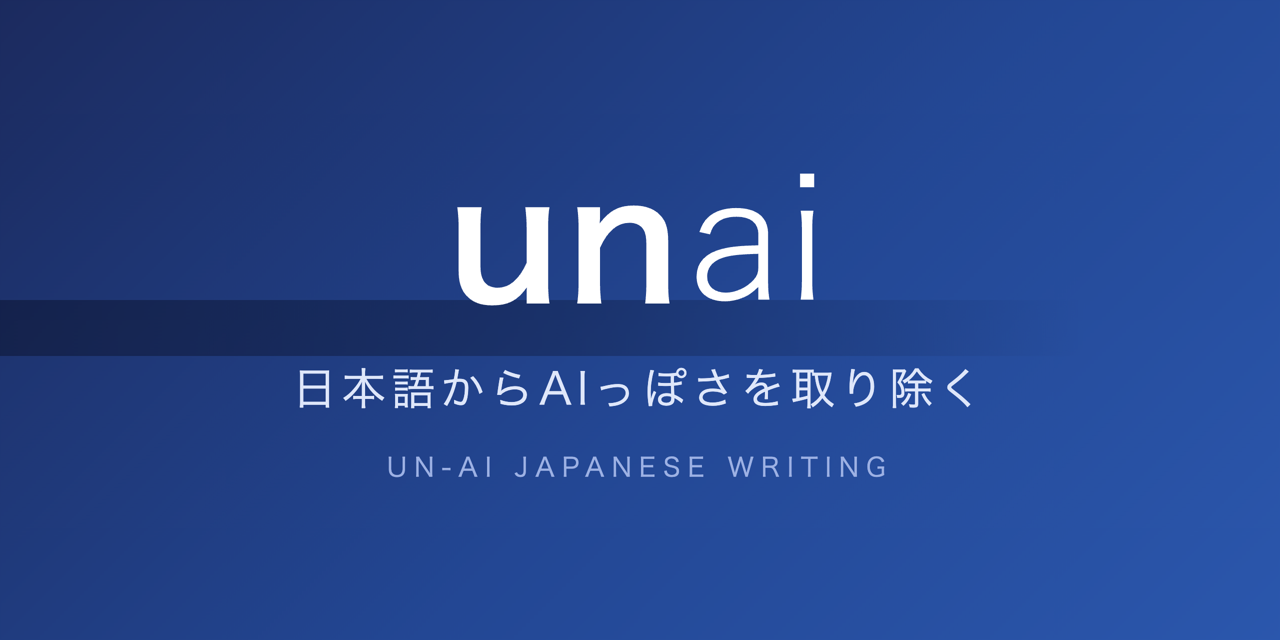
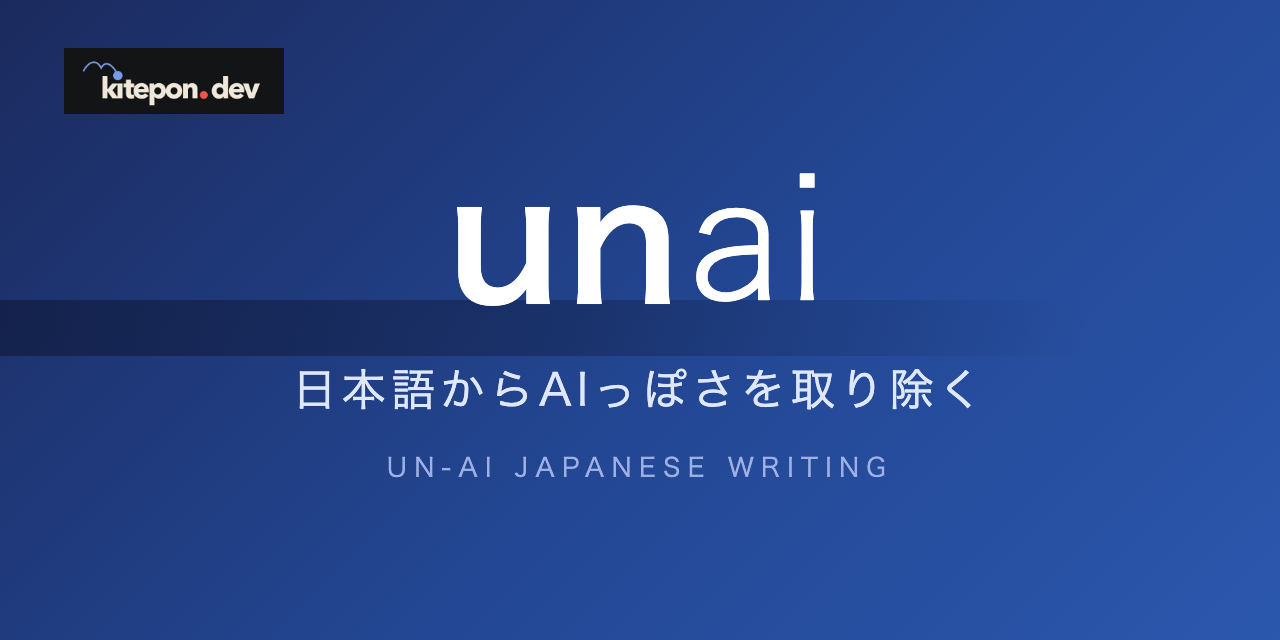
unaiの公開面をkitepon.devブランドへ接続

diff --git a/.github/og-source.html b/.github/og-source.html
@@ -14,6 +14,9 @@
     background:linear-gradient(90deg,rgba(12,20,48,.55) 0%,rgba(12,20,48,.35) 45%,rgba(12,20,48,0) 85%);
     border-radius:0 28px 28px 0;
   }
+  .brand{
+    position:absolute;left:64px;top:48px;width:220px;height:auto;
+  }
   .name{
     position:relative;color:#ffffff;font-size:168px;font-weight:300;
     letter-spacing:.04em;line-height:1;margin:0 0 34px;
@@ -29,6 +32,7 @@
   }
 </style>
 <div class="banner">
+  <img class="brand" src="kitepon-dev-on-night.png" alt="kitepon.dev">
   <div class="stroke"></div>
   <p class="name"><b>un</b>ai</p>
   <p class="tagline">日本語からAIっぽさを取り除く</p>

diff --git a/README.en.md b/README.en.md
@@ -1,5 +1,8 @@
 <p align="center"><img src=".github/og.png" alt="unai — strip AI flavor from Japanese text" width="100%"></p>
 
+<p align="center"><a href="https://kitepon.dev/en/#systems"><img src=".github/kitepon-dev-on-night.png" alt="kitepon.dev" width="180"></a></p>
+<p align="center"><strong>A kitepon.dev AI Development System</strong></p>
+
 # unai — strip AI flavor from Japanese text
 
 > An agent skill that diagnoses "AI-ness" in Japanese prose written by AI and removes it with minimal edits. Works on Claude Code, Codex, Grok, and Cursor.
@@ -60,3 +63,7 @@ De-AI'd text still needs *your* voice. Put your first-person choice, sentence en
 ## License
 
 MIT
+
+## Support and security
+
+Use [GitHub Issues](https://github.com/kitepon/unai/issues) for usage questions and bug reports. Do not disclose vulnerabilities in a public issue; follow the [security policy](SECURITY.md) instead.

diff --git a/README.md b/README.md
@@ -1,5 +1,8 @@
 <p align="center"><img src=".github/og.png" alt="unai — 日本語からAIっぽさを取り除く" width="100%"></p>
 
+<p align="center"><a href="https://kitepon.dev/#systems"><img src=".github/kitepon-dev-on-night.png" alt="kitepon.dev" width="180"></a></p>
+<p align="center"><strong>kitepon.dev の AI Development System</strong></p>
+
 # unai — 日本語文章からAIっぽさを取り除く
 
 > AIが書いた日本語の「AIっぽさ」を診断し、最小限の手直しで人の文章にするagent skill。Claude Code / Codex / Grok / Cursorで動く。
@@ -113,3 +116,7 @@ flowchart LR
 ## ライセンス
 
 MIT
+
+## サポートとセキュリティ
+
+使い方や不具合は [GitHub Issues](https://github.com/kitepon/unai/issues) へ。脆弱性の報告は公開Issueへ書かず、[セキュリティポリシー](SECURITY.md) に従ってください。

diff --git a/SECURITY.md b/SECURITY.md
@@ -1,0 +1,14 @@
+# セキュリティポリシー
+
+## 対応する版
+
+最新の公開版と`main`ブランチを対象に、セキュリティ報告を受け付けます。
+
+## 報告方法
+
+GitHubの
+[Private vulnerability reporting](https://github.com/kitepon/unai/security/advisories/new)
+から非公開で報告してください。公開Issue、Discussion、Pull Requestへ脆弱性の詳細を書かないでください。
+
+報告には、影響する版、再現手順、想定される影響、分かる場合は修正案を含めてください。
+受領後、内容と影響を確認し、公開方法と修正版の扱いを報告者と調整します。

diff --git a/SUPPORT.md b/SUPPORT.md
@@ -1,0 +1,9 @@
+# サポート
+
+unaiの使い方、不具合、誤検出、新しい日本語AI指紋の報告は
+[GitHub Issues](https://github.com/kitepon/unai/issues) で受け付けます。
+
+報告には、利用したホスト（Claude Code / Codex / Grok / Cursor）、実行した操作、
+期待した結果、実際の結果を含めてください。文章の実例は、公開してよい範囲へ伏せて構いません。
+
+脆弱性は公開Issueへ書かず、[SECURITY.md](SECURITY.md) の手順で非公開報告してください。
